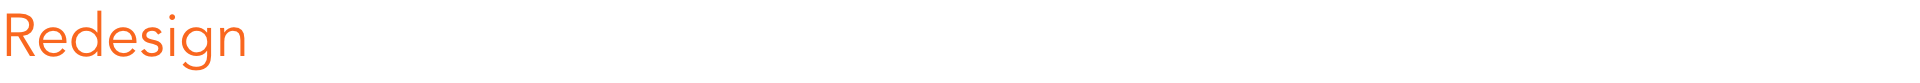
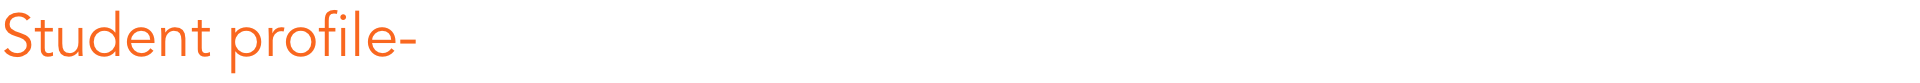
project 3

Changed region(s): [[0.0, 0.1205, 0.2188, 0.8675]]

diff --git a/work-detail_3.html b/work-detail_3.html
@@ -85,38 +85,55 @@
 								</p><br>
 								<p class="about__text">
 							
-										<br> <font size="5"> As UX researchers, we should care not only about the majority but about everyone. 
-											<br><font size="4">
-											<br>In this project, I’m working with Dr. Nathan Clemens in the Department of Special Education to design a diagnostic assessment of individual students’ difficulties in reading words. Specifically, we are developing software that will provide in-depth diagnostic data on an individual students’ skills in reading words, including the letter sounds, word types, and spelling patterns a student reads incorrectly. 
+									 <font size="5"> 
+											<font face= "Avenir", size="4">
+											<br>For this project, I worked with Dr. Nathan Clemens in the Department of Special Education in University of Texas at Austin to design a diagnostic assessment of individual students’ difficulties in reading words. Specifically, we designed a software that would provide in-depth diagnostic data on an individual students’ skills in reading words, including the letter sounds, word types, and spelling patterns in order to help instructors understand students' weakness in specific category and keep track on their learning progress.
 
 </font>
-										<br>
-										<br>
-										<br><font size="5">Problem Space: </font>
-										<br><font size="3">
-										The assessment will not be used as a screening tool to identify what students are struggling; rather, the program will intended for students who have already been identified with reading difficulties. The information from the assessment could be used by a teacher better understanding for designing instruction that more specifically targets a student’s reading needs. 
+									
+<br>
+										<br><font face= "Avenir", size="5">Problem: </font>
+										<br><font "Avenir", size="3">
+										Instructors' current pain points are inefficient data storage and performance tracking. For most of the instructors, they either stored data in paper-based files or manually typed spreadsheets. It is difficult to gauge whether there is improvement in students' performance in the long term. This is a tedious process and it is easy to make errors when having hundereds of students on hand. The information from the assessment could be used by a teacher to better design instructions that specifically targets a student’s reading needs. 
 										<br> </font>
+											<br>
+										<font "Avenir", size="5"> Methodology:</font>
+									
+										<br><font "Avenir", size="3"> Research, Subject matter expert (SME) interviews, 1-1 interviews, Qualitative data analysis</font>
 
-<br><font size="5">How I do:</font>
+<br><br><font "Avenir", size="5">Process:</font>
 										
-										<br><font size="3">
-										After sorting out several aspects of research questions using affinity diagram, I strategized several research methods to focus on different problems, including both generative and evaluative research. I performed early research about the elements of a good online newsroom to clarify the research problem. Then, I used subject matter expert to gain insights and conducted interview and surveys for average drivers to know how they plan for a trip and find out more about driver’s behaviors. I also executed user testing to figure out the pain points of the current website.
+										<br><font "Avenir", size="3">
+										First of all, I created interview scripts and moderated semi-structured interviews. 
+										<br>The interview script is separated into three parts, first starting from grasping demographic information about the teachers. This enabled us to look at their suggestions, preferences, etc. by demographic differences to see if there are any correlations (i.e. preference based on years of experience, age group they work with). It could be a great reference for finding patterns or data trends during analysis. 
+										<br>
+										<br>The second part served to extend the conversation from the first section. I wanted to know how instructors assess students' reading ability currently and what they found useful or useless. This section helped me understand how to increase the adoption of the app by leveraging the work model that instructors already have.
+										<br> 
+										<br>For the last section, I wanted to get their feedback on a concept on the assessment tool we made. First, I explained the assessment scenario. Each assessment was conducted with a student on a 1:1 basis. The student read lists of words from a tablet. On a separate device, the instructor scored each word according to whether it was read correctly or not. Immediately after the assessment, the software summarized the data in terms of the student’s accuracy in reading various word types and spelling patterns. 
+										<br>
+
  </font>
 
 
-										<br>
-<br><font size="5">My Role:</font>
 									
-										<br><font size="3"> Research, Subject matter expert (SME) interviews, 1-1 interviews, Qualitative data analysis</font>
-<br>
-<br><font size="5">Tools:</font>
+
+<br><font "Avenir", size="5">Tools:</font>
 										
-										<br><font size="3">Sketch, Figma</font>
+										<br><font "Avenir", size="3">Sketch, Figma</font>
 
 										<br>
-<br><font size="5">What I learn:</font>
-										
-										<br><font size="3">What I learned from this project is how to use in-depth qualitative data to inform design principle and reiterate the product. </font>
+<br><font "Avenir", size="5">What I learned:</font>
+									
+										<br><font "Avenir", size="3">
+										- Use in-depth qualitative data to inform design principle and reiterate the product
+										<br>
+										- Collaborate closely with designer to implement design changes based on topline findings
+										<br>
+										- Create interview scripts and design assessment test according to research question
+										<br>
+										- Maintain communication with stakeholder, especially regarding blockers in the recruiting process, timeline changes, and project expectations
+									</font>
+									<div class=""><img src="assets/img/content3/header.png" alt=""></div>
 								<div class=""><img src="assets/img/content3/client_dys.png" alt=""></div>
 								<p class="about__text">
 							            <br>
@@ -131,23 +148,25 @@
 								<div class=""><img src="assets/img/content3/participant_dys.png" alt=""></div>
 								<p class="about__text">
 									<br>
-										<br>
+										<br><font "Avenir", size="3">This is the current process of assessing students for instructors, from gathering students, starting assessment, generating reports to storing data.
 										<div class=""><img src="assets/img/content3/journey_dys.png" alt=""></div>
 								<p class="about__text">
 							           
 
 							</div>
-						<div class=""><img src="assets/img/content3/solution_dys.png" alt=""></div>
+						<div class=""><img src="assets/img/content3/key_dys.png" alt=""></div>
 								<p class="about__text">
 									<br>
-										<br>
-										<div class=""><img src="assets/img/content3/key_dys.png" alt=""></div>
+										<br><font "Avenir", size="3">I found instructors are struggling with storing data in a systematic way and tracking students' performance.
+										<div class=""><img src="assets/img/content3/solution_dys.png" alt=""></div>
 								<p class="about__text">
 							            <br>
+							            <br><font "Avenir", size="3">After I discovered the pain points and proposed solutions, I discussed possible changes on current prototype with designer. 
 							            <br>
+							            <br>Here are some example pages that we made.
 								<div class=""><img src="assets/img/content3/rede.png" alt=""></div>
 								<p class="about__text">
-									<br>
+								
 							</div>
 							<p class="about__text">
 								
@@ -156,11 +175,15 @@
 								
 								<p class="about__text">
 									<br>
+										<br><div class=""><img src="assets/img/content3/rede_assessresult.png" alt=""></div>
 										<br>
 										<div class=""><img src="assets/img/content3/redesign_2.png" alt=""></div>
 								
 								<p class="about__text">
 									<br>
+									
+
+										<br><div class=""><img src="assets/img/content3/rede_performance.png" alt=""></div>
 										<br>
 										<div class=""><img src="assets/img/content3/redesign_3.png" alt=""></div>
 								
